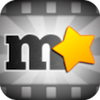
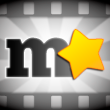
changes layout

diff --git a/style.css b/style.css
@@ -56,14 +56,14 @@ img {
 /* MAIN AREAS */
 
 #main-content {
-  width: 860px;
+  width: 880px;
   padding: 0 20px 50px 20px;
   margin: auto;
-  background: #fff;
+  background: #ccc;
 }
 
 .top-banner {
-  width: 860px;
+  width: 880px;
   padding: 10px 20px 0 20px;
   margin: auto;
   z-index: 5;
@@ -74,33 +74,36 @@ img {
 }
 
 .top-banner:after {
-  border-bottom: 1px solid #ccc;
+/*  border-bottom: 1px solid #ccc;*/
 }
 
 
 footer {
-  width: 860px;
+  width: 880px;
   padding: 0 20px;
   margin: auto;
   height: 30px;
-  background: #fff;
+  background: #666;
 }
 
 
 .project-sidebar {
   padding-top: 10px;
-  width: 120px;
+  width: 126px;
 /*  border-right: 1px solid green;*/
 }
 
 #content {
-  margin-top: 36px;
-  width: 470px;
+  margin: 40px 15px 20px 15px;
+  width: 440px;
   padding: 10px 20px;
+  background: #fff;
+  border-radius: 0 0 4px 4px;
+  box-shadow: 0 2px 4px #333;
 }
 
 #features {
-  padding: 10px 10px 0 10px;
+  padding-top: 10px;
 }
 
 #languages {
@@ -109,6 +112,10 @@ footer {
 /*  right: 20px;*/
 /*  border-right: 1px solid #ccc;*/
   margin-top: 10px;
+  padding: 10px;
+  background: #fff;
+  border-radius: 0 0 4px 0;
+  box-shadow: 0 2px 4px #333;
 }
 
 #technology {
@@ -116,9 +123,10 @@ footer {
 /*  right: 12px;*/
 /*  margin-top: 5px;*/
   margin: 10px 0 0 10px;
-  z-index: 0;
-/*  width: 120px;*/
+  padding: 10px;
   background: #fff;
+  border-radius: 0 4px 4px 0;
+  box-shadow: 0 2px 4px #333;
 /*  border: 1px solid purple;*/
 /*  box-shadow: -2px 0 2px 0 #666;*/
 /*  border-left: 1px solid #333;*/
@@ -126,6 +134,8 @@ footer {
 
 h3.title {
   font-weight: bold;
+  color: #fff;
+  text-shadow: 1px 1px 2px #333;
 /*  margin-bottom: 20px;*/
 }
 
@@ -136,9 +146,8 @@ h3.title {
 
 
 .profile-logo {
+  padding-top: 5px;
   float: left;
-  font-size: 24px;
-  font-weight: bold;
 }
 
 .top-nav ul {
@@ -149,6 +158,11 @@ h3.title {
   margin-left: 20px;
 }
 
+.top-nav ul li img {
+  border: 2px solid #fff;
+  border-radius: 4px;
+  box-shadow: 0 1px 2px #333;
+}
 
 
 .text-link {
@@ -165,25 +179,41 @@ img.project-thumb {
   margin-left: 10px;*/
   width: 50px;
 /*  padding: 0 10px 10px 0; */
-  margin: 0 6px 6px 0;
-  border: 1px solid transparent;
+  margin: 4px;
+  border: 2px solid #fff;
   cursor: pointer;
   box-shadow: 0 1px 4px #333;
 }
 
 img.project-thumb:hover {
-  border: 1px solid red;
+  border: 2px solid red;
 }
 
 #project-icon {
-/*  margin: 5px 5px 5px 0;
-  margin-left: 10px;*/
-  float: left;
-  width: 110px;
-  margin: 10px 10px 10px 0;
-  border: 2px solid transparent;
-  border-radius: 8px;
+  margin-top: 10px;
+  background: #fff;
+  border-radius: 8px 0 0 8px;
   box-shadow: 0 1px 6px #333;
+}
+
+#project-icon img {
+  float: left;
+  display: block;
+  border: 4px solid #fff;
+  border-radius: 8px 0 0 8px;
+}
+
+
+#project-thumbnails {
+/*  background: #eee;*/
+  margin-top: 50px;
+/*  padding: 5px;
+  border-radius: 4px;
+  box-shadow: 0 2px 4px #333;*/
+}
+
+#project-thumbnails > li:first {
+
 }
 
 /* ----------------------------------------------------- */

diff --git a/index.html b/index.html
@@ -14,18 +14,21 @@
         <ul>
           <li>
             <a href="http://www.linkedin.com/in/badamrussell">
-              <img src="images/indeed.png" alt="View B. Adam Russell's LinkedIn profile" style="vertical-align:middle">
               <img src="images/menu_linkedin.png" alt="View B. Adam Russell's LinkedIn profile" style="vertical-align:middle">
             </a>
           </li>
 
           <li>
             <a href="http://github.com/badamrussell">
-              <img src="images/blacktocat-32.png" alt="View B. Adam Russell's Github profile" width="32" height="32" alt="Blacktocat 32">
+              <img src="images/menu_github1.png" height="30" alt="View B. Adam Russell's Github profile">
             </a>
           </li>
 
-          <li><a class="text-link" href="#">email</a></li>
+          <li>
+            <a href="mailto:b.ad.russell@gmail.com">
+              <img src="images/menu_email.png" height="30" alt="email B. Adam Russell">
+            </a>
+          </li>
         </ul>
       </nav>
   </header>
@@ -33,8 +36,12 @@
   <div id="main-content" class="group">
   <section class="project-sidebar left">
     <h3 class="title">projects</h3>
-    <img id="project-icon" data-id="3" class="right" src="images/railsLite.png">
-    <ul>
+
+    <div id="project-icon" class="group">
+      <img data-id="3" src="images/railsLite.png">
+    </div>
+
+    <ul id="project-thumbnails" class="group">
       <li><img class="project-thumb left" data-id="2" src="images/tree.png"></li>
       <li><img class="project-thumb left" data-id="1" src="images/maze.png"></li>
       <li><img class="project-thumb left" data-id="4" src="images/poker.png"></li>
@@ -52,11 +59,9 @@
 
     <article id="1" class="hidden">
       <div class="languages-used">
-        <input type="hidden" value="HTML">
         <input type="hidden" value="RUBY">
       </div>
       <div class="techs-used">
-        <input type="hidden" value="ERB">
       </div>
 
       <div class="content-title group">
@@ -492,7 +497,7 @@
       $target.data("id", iconID);
 
 
-      sortElements($(".language"), $article.find(".languages-used input"), 40, $("#languages"))
+      sortElements($(".language"), $article.find(".languages-used input"), 39, $("#languages"))
 
       sortElements($(".tech"), $article.find(".techs-used input"), 20, $("#technology"))
     });
